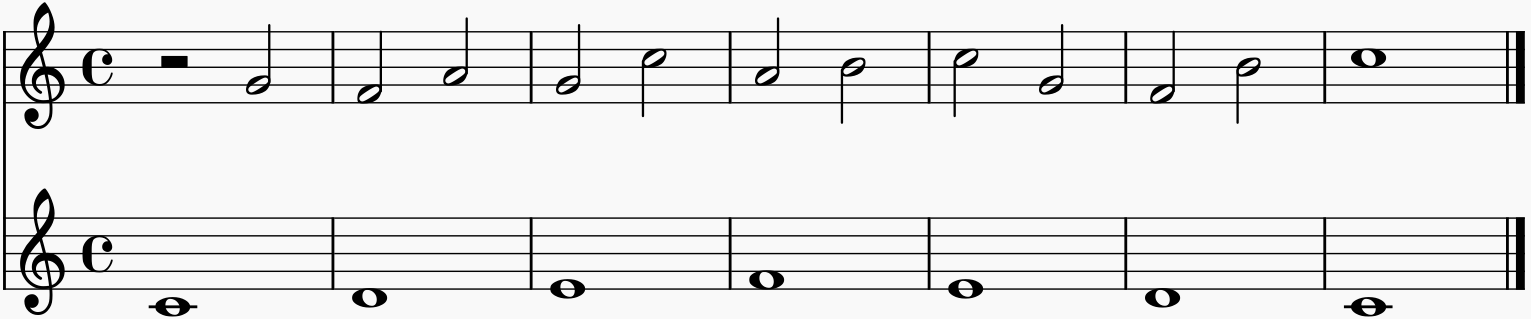
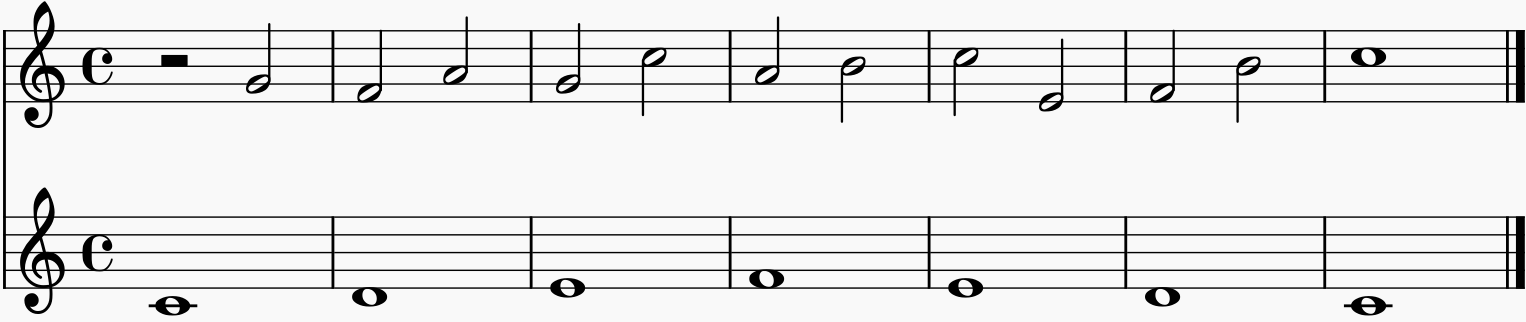
more on second species

Changed region(s): [[0.0, 0.6489, 1.0, 1.0], [0.0, 0.0564, 1.0, 0.3668], [0.0, 0.3668, 0.0308, 0.395]]

diff --git a/doc/icfp20/counterpoint.tex b/doc/icfp20/counterpoint.tex
@@ -1,12 +1,12 @@
 \newcommand{\FS}{
   \begin{figure}
-    \includegraphics[width=10cm]{fs.png}
+    \includegraphics[width=11cm]{fs.png}
     \caption{First Species Counterpoint}
     \label{fig:fs}
   \end{figure}
 }
 
-\newcommand{\SS}{
+\renewcommand{\SS}{
   \begin{figure}
     \includegraphics[width=10cm]{ss.png}
     \caption{Second Species Counterpoint}
@@ -66,7 +66,8 @@ first : PitchInterval
 first = (c 5 , per8)
 
 middle : List PitchInterval
-middle = (d 5 , maj6) :: (e 5 , min6) :: (f 5 , maj3) :: (e 5 , min3) :: (d 5 , maj6) :: []
+middle = (d 5 , maj6) :: (e 5 , min6) :: (f 5 , maj3) ::
+         (e 5 , min3) :: (d 5 , maj6) :: []
 
 last : PitchInterval
 last = (c 5 , per8)
@@ -242,12 +243,28 @@ In second species, we set \emph{two} half notes against every cantus
 firmus note.
 Figure~\ref{fig:ss} shows an example of such two-against-one
 counterpoint, again composed for the Frog's song.
-To represent second species counterpoint, we define a new type
-\texttt{PitchInterval2} as a triple of a pitch and two intervals:
+As can be seen from this example, the first and last bars may have
+a different structure from middle bars.
+More specifically, it is encouraged to begin the counterpoint line with
+a half rest and end with a whole note.
+Therefore, in our implementation, we reuse the \texttt{PitchInterval} 
+type for the first and last bars, and define a new type
+\texttt{PitchInterval2} for middle bars:
 
 \begin{alltt}
 PitchInterval2 : Set
 PitchInterval2 = Pitch \(\times\) Interval \(\times\) Interval
+
+first2 : PitchInterval
+first2 = (c 5 , per5)
+
+middle2 : List PitchInterval2
+middle2 =
+  (d 5 , min3 , per5) :: (e 5 , min3 , min6) :: (f 5 , maj3 , aug4) ::
+  (e 5 , min6 , min3) :: (d 5 , min3 , maj6) :: []
+
+last2 : PitchInterval
+last2 = (c 5 , per8)
 \end{alltt}
 
 The rhythmic structure of secound species counterpoint gives rise to
@@ -258,4 +275,53 @@ same rules as in first species.
 That is, they must all be consonant, non-unison intervals, and in the 
 case of perfect intervals, the motion from the preceding interval (on
 the weak beat) must be either contrary or oblique.
-Weak beats, on the other hand, ...
+Weak beats, on the other hand, are constrained in a looser manner.
+First, they are allowed to be dissonant if they are created by a
+\emph{passing tone}, i.e., a note in the middle of two step-wise
+motions in the same direction (as in bars 4-5 of Figure~\ref{fig:ss}).
+Second, they are allowed to be a unison if they are left by step in the
+opposite direction from their approach (as in bars 5-6 of Figure~\ref{fig:ss}).
+
+With these rules in mind, let us look at the definition of
+\texttt{SecondSpecies}, a record type inhabited by correct second
+species counterpoint:
+
+\begin{alltt}
+record SecondSpecies : Set where
+  constructor secondSpecies
+  field
+    firstBar      : PitchInterval 
+    middleBars    : List PitchInterval2
+    lastBar       : PitchInterval 
+    beginningOk   : checkBeginning2 firstBar \(\equiv\) nothing
+    strongBeatsOk : checkStrongBeats middleBars \(\equiv\) []
+    weakBeatsOk   : checkWeakBeats middleBars (secondPitch lastBar) \(\equiv\) []
+    motionOk      : checkMotion2 (firstBar ::
+                                  (expandPitchIntervals2 middleBars) ++
+                                  (lastBar :: [])) \(\equiv\) []
+    endingOk      : checkEnding2 middleBars lastBar \(\equiv\) nothing
+\end{alltt}
+
+\noindent As in \texttt{FirstSpecies}, we have three fields holding
+the musical content, followed by five fields carrying the proofs of
+various properties.
+Among the latter group of fields, \texttt{beginningOK} is defined
+analogously to the corresponding field of \texttt{FirstSpecies};
+the only difference is that the interval must not be a unison,
+as it prevents the listener from recognizing the beginning of the
+counterpoint line.
+The next two fields, \texttt{strongBeatsOK} and \texttt{weakBeatsOK},
+guarantee the correctness of strong and weak beats, respectively.
+What follows is \texttt{motionOK}, which converts a list of
+\texttt{PitchInterval2} into a list of \texttt{PitchInterval}, and checks
+motion accross bars.
+Lastly, we have \texttt{endingOK}, which forces the last two intervals
+to have a cadence structure.
+
+Using \texttt{SecondSpecies}, we can show that our second species
+counterpoint for the Frog's song is correct.
+
+\begin{alltt}
+ss : SecondSpecies
+ss = SecondSpecies first2 middle2 last2 refl refl refl refl refl
+\end{alltt}
